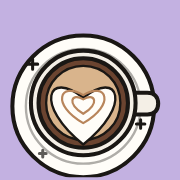
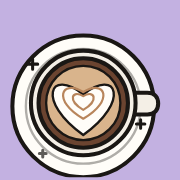
Keep the latte heart inside the crema: smaller heart, gentler pull-through stretch

Changed region(s): [[0.2778, 0.4444, 0.6667, 0.8056]]

diff --git a/components/preloader/LatteArt.tsx b/components/preloader/LatteArt.tsx
@@ -24,8 +24,8 @@ const POUR_END = 24;
 const CUT_END = 28;
 const EXIT_START = 29;
 
-const HEART_Y = 55; // heart centre
-const HEART_S = 2.1; // full-size scale of the heart path
+const HEART_Y = 53; // heart centre (the point reaches r≈19 of the crema's 22 once pulled)
+const HEART_S = 2.0; // full-size scale of the heart path
 const INNER = "#B8855B"; // the thin rings drawn inside the milk
 
 /**
@@ -33,7 +33,7 @@ const INNER = "#B8855B"; // the thin rings drawn inside the milk
  * the spout drags the milk, which stretches the point and dips the notch, with no visible line.
  */
 const heart = (cx: number, cy: number, k: number, p = 0) => {
-  const tip = cy + (9 + 3.2 * p) * k;
+  const tip = cy + (9 + 2 * p) * k;
   const notch = cy + (-3 + 2 * p) * k;
   return `M${cx} ${tip}C${cx - 14 * k} ${cy + 1 * k} ${cx - 10 * k} ${cy - 9 * k} ${cx} ${notch}C${cx + 10 * k} ${cy - 9 * k} ${cx + 14 * k} ${cy + 1 * k} ${cx} ${tip}Z`;
 };
